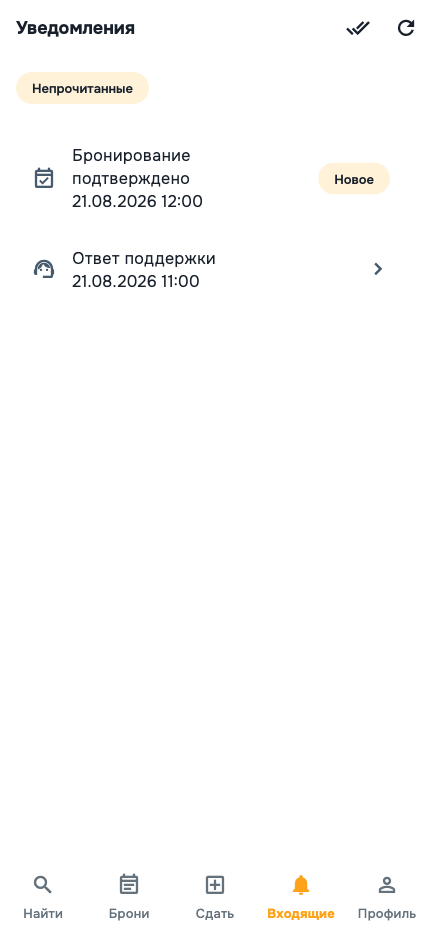
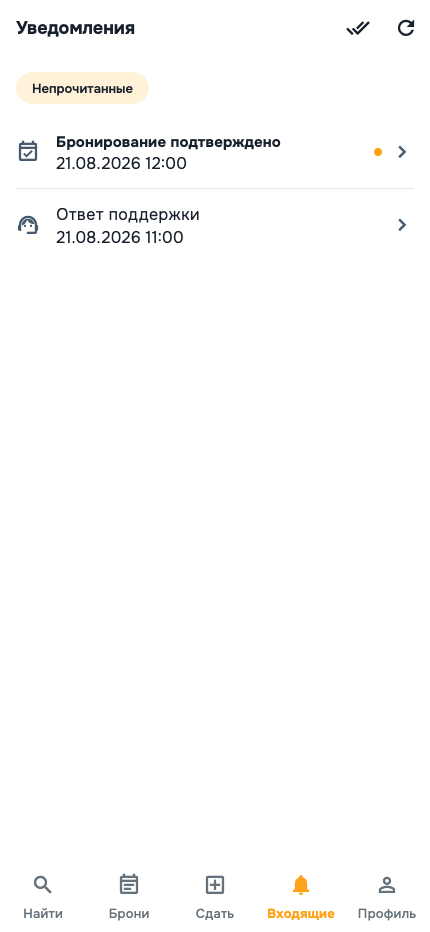
feat(mobile): simplify chat and inbox

Changed region(s): [[0.0302, 0.1245, 0.6349, 0.3112], [0.7256, 0.1556, 0.907, 0.2178], [0.0605, 0.28, 0.1209, 0.3112]]

diff --git a/mobile/lib/features/booking/presentation/booking_chat_screen.dart b/mobile/lib/features/booking/presentation/booking_chat_screen.dart
@@ -364,57 +364,68 @@ class _Composer extends StatelessWidget {
   @override
   Widget build(BuildContext context) {
     return Material(
-      elevation: 8,
+      key: const ValueKey('booking-chat-composer'),
       color: Theme.of(context).colorScheme.surface,
-      child: Padding(
-        padding: const EdgeInsets.fromLTRB(16, 12, 16, 16),
-        child: Column(
-          mainAxisSize: MainAxisSize.min,
-          children: [
-            FormBuilder(
-              key: formKey,
-              child: FormBuilderTextField(
-                name: 'body',
-                minLines: 1,
-                maxLines: 5,
-                maxLength: 2000,
-                textCapitalization: TextCapitalization.sentences,
-                decoration: const InputDecoration(
-                  labelText: 'Сообщение',
-                  hintText: 'Напишите о времени и передаче вещи',
-                ),
-                validator: FormBuilderValidators.compose([
-                  FormBuilderValidators.required(),
-                  FormBuilderValidators.maxLength(2000),
-                ]),
-              ),
+      child: DecoratedBox(
+        decoration: BoxDecoration(
+          border: Border(
+            top: BorderSide(
+              color: Theme.of(context).colorScheme.outlineVariant,
             ),
-            if (error != null)
-              Align(
-                alignment: Alignment.centerLeft,
-                child: Text(
-                  userFacingError(
-                    error!,
-                    fallback: 'Не удалось отправить сообщение',
+          ),
+        ),
+        child: Padding(
+          padding: const EdgeInsets.fromLTRB(16, 12, 16, 16),
+          child: Column(
+            mainAxisSize: MainAxisSize.min,
+            children: [
+              FormBuilder(
+                key: formKey,
+                child: FormBuilderTextField(
+                  name: 'body',
+                  minLines: 1,
+                  maxLines: 5,
+                  maxLength: 2000,
+                  textCapitalization: TextCapitalization.sentences,
+                  decoration: const InputDecoration(
+                    labelText: 'Сообщение',
+                    hintText: 'Напишите о времени и передаче вещи',
                   ),
-                  style: TextStyle(color: Theme.of(context).colorScheme.error),
+                  validator: FormBuilderValidators.compose([
+                    FormBuilderValidators.required(),
+                    FormBuilderValidators.maxLength(2000),
+                  ]),
                 ),
               ),
-            const SizedBox(height: 8),
-            SizedBox(
-              width: double.infinity,
-              child: FilledButton.icon(
-                onPressed: sending ? null : onSend,
-                icon: sending
-                    ? const SizedBox.square(
-                        dimension: 18,
-                        child: CircularProgressIndicator(strokeWidth: 2),
-                      )
-                    : const Icon(Icons.send_outlined),
-                label: Text(sending ? 'Отправляем…' : 'Отправить'),
+              if (error != null)
+                Align(
+                  alignment: Alignment.centerLeft,
+                  child: Text(
+                    userFacingError(
+                      error!,
+                      fallback: 'Не удалось отправить сообщение',
+                    ),
+                    style: TextStyle(
+                      color: Theme.of(context).colorScheme.error,
+                    ),
+                  ),
+                ),
+              const SizedBox(height: 8),
+              SizedBox(
+                width: double.infinity,
+                child: FilledButton.icon(
+                  onPressed: sending ? null : onSend,
+                  icon: sending
+                      ? const SizedBox.square(
+                          dimension: 18,
+                          child: CircularProgressIndicator(strokeWidth: 2),
+                        )
+                      : const Icon(Icons.send_outlined),
+                  label: Text(sending ? 'Отправляем…' : 'Отправить'),
+                ),
               ),
-            ),
-          ],
+            ],
+          ),
         ),
       ),
     );
@@ -459,17 +470,26 @@ class _MessageBubble extends StatelessWidget {
         margin: const EdgeInsets.symmetric(vertical: 4),
         padding: const EdgeInsets.fromLTRB(14, 10, 14, 8),
         decoration: BoxDecoration(
-          color: mine ? colors.primaryContainer : const Color(0xFFF2F4F7),
-          borderRadius: BorderRadius.circular(16),
+          color: mine ? const Color(0xFFF7F8F9) : colors.surface,
+          border: Border.all(color: colors.outlineVariant),
+          borderRadius: BorderRadius.circular(12),
         ),
         child: Column(
-          crossAxisAlignment: CrossAxisAlignment.end,
+          crossAxisAlignment: CrossAxisAlignment.start,
           children: [
-            Align(alignment: Alignment.centerLeft, child: Text(message.body)),
-            const SizedBox(height: 4),
             Text(
-              _time(message.createdAt),
+              mine ? 'Вы' : 'Собеседник',
               style: Theme.of(context).textTheme.labelSmall,
+            ),
+            const SizedBox(height: 4),
+            Text(message.body),
+            const SizedBox(height: 4),
+            Align(
+              alignment: Alignment.centerRight,
+              child: Text(
+                _time(message.createdAt),
+                style: Theme.of(context).textTheme.labelSmall,
+              ),
             ),
             if (onReport != null)
               TextButton.icon(

diff --git a/mobile/lib/features/notifications/presentation/inbox_screen.dart b/mobile/lib/features/notifications/presentation/inbox_screen.dart
@@ -91,14 +91,14 @@ class InboxScreen extends ConsumerWidget {
                           ref.invalidate(inboxEventsProvider);
                         },
                         child: ListView.separated(
-                          padding: const EdgeInsets.all(16),
+                          padding: const EdgeInsets.fromLTRB(16, 0, 16, 16),
                           itemCount:
                               value.items.length +
                               (value.nextCursor != null ||
                                       value.loadMoreError != null
                                   ? 1
                                   : 0),
-                          separatorBuilder: (_, _) => const SizedBox(height: 8),
+                          separatorBuilder: (_, _) => const Divider(height: 1),
                           itemBuilder: (context, index) {
                             if (index == value.items.length) {
                               return Center(
@@ -117,16 +117,46 @@ class InboxScreen extends ConsumerWidget {
                               );
                             }
                             final event = value.items[index];
-                            return Card(
-                              child: ListTile(
-                                enabled: !opening.isLoading,
-                                onTap: () => _open(context, ref, event),
-                                leading: Icon(_icon(event.eventType)),
-                                title: Text(_title(event.eventType)),
-                                subtitle: Text(_time(event.createdAt)),
-                                trailing: event.readAt == null
-                                    ? const Chip(label: Text('Новое'))
-                                    : const Icon(Icons.chevron_right),
+                            final unread = event.readAt == null;
+                            return ListTile(
+                              contentPadding: EdgeInsets.zero,
+                              enabled: !opening.isLoading,
+                              onTap: () => _open(context, ref, event),
+                              leading: Icon(_icon(event.eventType)),
+                              title: Text(
+                                _title(event.eventType),
+                                style: unread
+                                    ? Theme.of(
+                                        context,
+                                      ).textTheme.titleMedium?.copyWith(
+                                        fontWeight: FontWeight.w700,
+                                      )
+                                    : null,
+                              ),
+                              subtitle: Text(_time(event.createdAt)),
+                              trailing: Row(
+                                mainAxisSize: MainAxisSize.min,
+                                children: [
+                                  if (unread)
+                                    Semantics(
+                                      container: true,
+                                      label: 'Непрочитано',
+                                      child: ExcludeSemantics(
+                                        child: Container(
+                                          width: 8,
+                                          height: 8,
+                                          decoration: BoxDecoration(
+                                            color: Theme.of(
+                                              context,
+                                            ).colorScheme.primary,
+                                            shape: BoxShape.circle,
+                                          ),
+                                        ),
+                                      ),
+                                    ),
+                                  const SizedBox(width: 8),
+                                  const Icon(Icons.chevron_right),
+                                ],
                               ),
                             );
                           },

diff --git a/mobile/test/features/notifications/inbox_screen_test.dart b/mobile/test/features/notifications/inbox_screen_test.dart
@@ -31,12 +31,17 @@ void main() {
     await tester.pumpAndSettle();
 
     expect(find.text('Ответ поддержки'), findsOneWidget);
-    expect(find.text('Новое'), findsOneWidget);
+    expect(find.bySemanticsLabel('Непрочитано'), findsOneWidget);
     await tester.tap(find.text('Ответ поддержки'));
     await tester.pumpAndSettle();
 
     expect(service.markReadCalls, 1);
     expect(find.text('Обращение открыто'), findsOneWidget);
+
+    router.pop();
+    await tester.pumpAndSettle();
+
+    expect(find.bySemanticsLabel('Непрочитано'), findsNothing);
   });
 
   testWidgets('shows a neutral title for a moderated review', (tester) async {
@@ -89,12 +94,12 @@ void main() {
     );
     await tester.pumpAndSettle();
 
-    expect(find.text('Новое'), findsOneWidget);
+    expect(find.bySemanticsLabel('Непрочитано'), findsOneWidget);
     await tester.tap(find.byTooltip('Прочитать всё'));
     await tester.pumpAndSettle();
 
     expect(service.markAllReadCalls, 1);
-    expect(find.text('Новое'), findsNothing);
+    expect(find.bySemanticsLabel('Непрочитано'), findsNothing);
   });
 }
 
@@ -107,6 +112,7 @@ class _FakeInboxService extends InboxService {
   final List<bool> unreadOnlyValues = [];
   var markAllReadCalls = 0;
   var allRead = false;
+  var singleRead = false;
 
   @override
   Future<List<InboxEvent>> list() async => [value ?? event];
@@ -120,7 +126,7 @@ class _FakeInboxService extends InboxService {
     unreadOnlyValues.add(unreadOnly);
     if (unreadOnly) {
       return InboxPage(
-        items: allRead ? [] : [value ?? event],
+        items: allRead || singleRead ? [] : [value ?? event],
         nextCursor: null,
       );
     }
@@ -130,7 +136,7 @@ class _FakeInboxService extends InboxService {
     final first = value ?? event;
     return InboxPage(
       items: [
-        allRead
+        allRead || singleRead
             ? first.copyWith(readAt: DateTime.utc(2026, 8, 30, 12, 5))
             : first,
       ],
@@ -148,6 +154,7 @@ class _FakeInboxService extends InboxService {
   @override
   Future<InboxEvent> markRead(String eventId) async {
     markReadCalls += 1;
+    singleRead = true;
     return (value ?? event).copyWith(readAt: DateTime.utc(2026, 7, 29, 12, 5));
   }
 

diff --git a/mobile/test/features/booking/booking_chat_screen_test.dart b/mobile/test/features/booking/booking_chat_screen_test.dart
@@ -14,6 +14,39 @@ import 'package:mobile/features/safety/data/safety_service.dart';
 
 void main() {
   testWidgets(
+    'keeps the composer reachable with large text on a compact screen',
+    (tester) async {
+      tester.view.physicalSize = const Size(320, 720);
+      tester.view.devicePixelRatio = 1;
+      addTearDown(tester.view.resetPhysicalSize);
+      addTearDown(tester.view.resetDevicePixelRatio);
+
+      await tester.pumpWidget(
+        ProviderScope(
+          overrides: [
+            bookingServiceProvider.overrideWithValue(_RetryBookingService()),
+            bookingDetailsProvider(
+              booking.id,
+            ).overrideWith((ref) async => booking),
+          ],
+          child: MaterialApp(
+            home: MediaQuery(
+              data: const MediaQueryData(textScaler: TextScaler.linear(2)),
+              child: BookingChatScreen(bookingId: booking.id),
+            ),
+          ),
+        ),
+      );
+      await tester.pumpAndSettle();
+
+      final composer = find.byKey(const ValueKey('booking-chat-composer'));
+      expect(composer, findsOneWidget);
+      expect(find.widgetWithText(FilledButton, 'Отправить'), findsOneWidget);
+      expect(tester.getRect(composer).bottom, lessThanOrEqualTo(720));
+    },
+  );
+
+  testWidgets(
     'shows system text and retries one draft with the same client ID',
     (tester) async {
       tester.view.physicalSize = const Size(1080, 2400);
